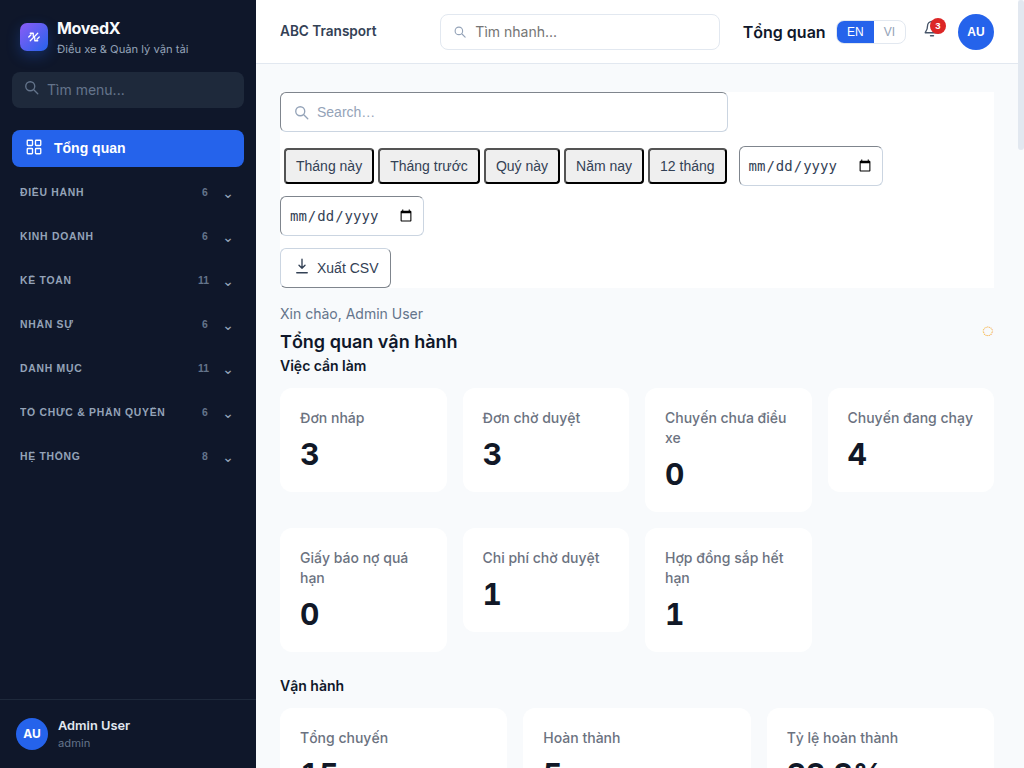
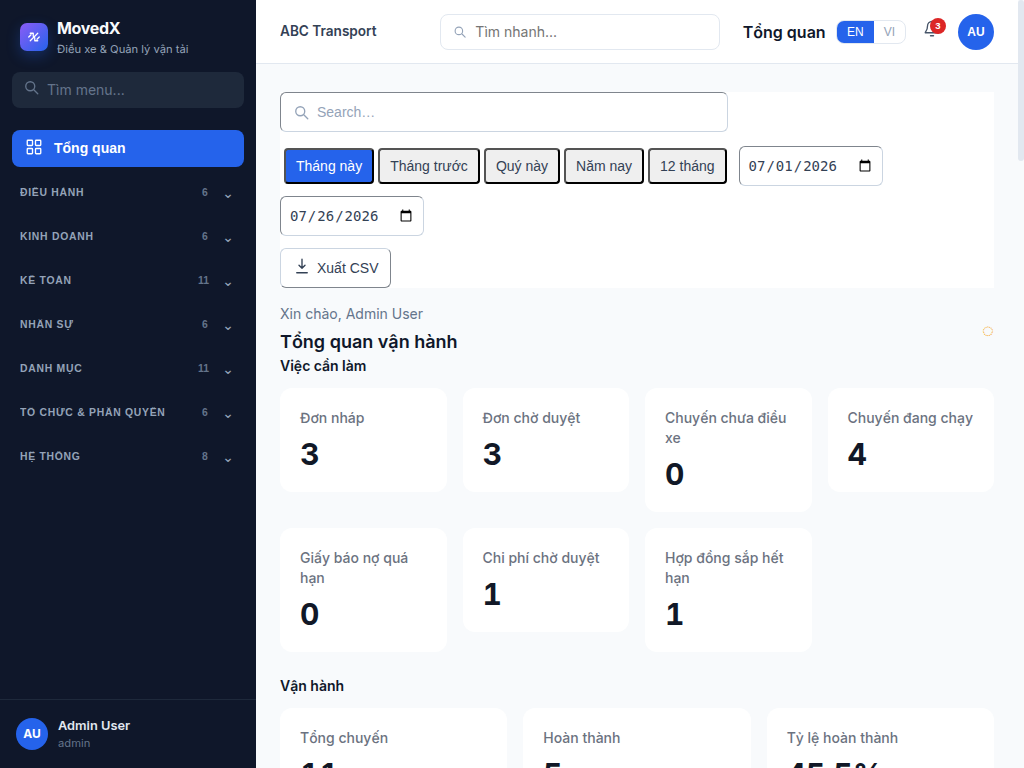
Initialize dashboard period state

Changed region(s): [[0.2812, 0.1875, 0.375, 0.3125], [0.7188, 0.1875, 0.8125, 0.25]]

diff --git a/lib/components/ListToolbar.ts b/lib/components/ListToolbar.ts
@@ -32,6 +32,7 @@ export type ListToolbarDefinition = {
     to_label?: string;
     presets?: Array<'today' | 'previous_month' | 'week' | 'month' | 'quarter' | 'year' | 'last_12_months' | 'all'>;
     preset_style?: 'select' | 'segmented';
+    default_preset?: 'today' | 'previous_month' | 'week' | 'month' | 'quarter' | 'year' | 'last_12_months' | 'all';
   };
   filter_sources?: string[];
 };
@@ -107,6 +108,7 @@ export class ListToolbar extends BaseComponent {
         };
         const submitPreset = (value: typeof dateRange.presets[number]) => {
           const dates = this.resolvePreset(value);
+          this.setState({ ...dates, preset: value }, false);
           this.submit('date-range', {
             [(dateRange.from_field || 'from_date')]: dates.from,
             [(dateRange.to_field || 'to_date')]: dates.to,
@@ -120,7 +122,7 @@ export class ListToolbar extends BaseComponent {
             const button = document.createElement('button');
             button.type = 'button';
             button.dataset.datePreset = preset;
-            button.className = 'rounded px-2.5 py-1.5 text-sm text-slate-700 transition-colors hover:bg-blue-50 hover:text-blue-700';
+            button.className = `rounded px-2.5 py-1.5 text-sm transition-colors hover:bg-blue-50 hover:text-blue-700 ${this.state.preset === preset ? 'bg-blue-600 text-white' : 'text-slate-700'}`;
             button.textContent = labels[preset] || preset;
             button.addEventListener('click', () => submitPreset(preset));
             segments.append(button);
@@ -140,6 +142,7 @@ export class ListToolbar extends BaseComponent {
             option.textContent = labels[preset] || preset;
             select.append(option);
           }
+          select.value = String((this.state as any).preset || '');
           select.addEventListener('change', () => {
             const value = select.value as typeof dateRange.presets[number] | '';
             if (value) submitPreset(value);
@@ -198,26 +201,8 @@ export class ListToolbar extends BaseComponent {
     container.append(root);
   }
 
-  private resolvePreset(preset: 'today' | 'previous_month' | 'week' | 'month' | 'quarter' | 'year' | 'last_12_months' | 'all') {
-    if (preset === 'all') return { from: '', to: '' };
-    const today = new Date();
-    const start = new Date(today.getFullYear(), today.getMonth(), today.getDate());
-    let end = today;
-    if (preset === 'previous_month') {
-      start.setMonth(start.getMonth() - 1, 1);
-      end = new Date(start.getFullYear(), start.getMonth() + 1, 0);
-    }
-    if (preset === 'week') start.setDate(start.getDate() - ((start.getDay() + 6) % 7));
-    if (preset === 'month') start.setDate(1);
-    if (preset === 'quarter') {
-      start.setMonth(Math.floor(start.getMonth() / 3) * 3, 1);
-    }
-    if (preset === 'year') start.setMonth(0, 1);
-    if (preset === 'last_12_months') start.setMonth(start.getMonth() - 11, 1);
-    const format = (date: Date) => [date.getFullYear(), date.getMonth() + 1, date.getDate()]
-      .map((part, index) => index === 0 ? String(part) : String(part).padStart(2, '0'))
-      .join('-');
-    return { from: format(start), to: format(end) };
+  private resolvePreset(preset: DateRangePreset) {
+    return resolveDatePreset(preset);
   }
 
   private emitSearch(action?: string) {
@@ -262,4 +247,26 @@ export class ListToolbar extends BaseComponent {
     if (variant === 'ghost') return 'border-transparent bg-transparent text-slate-600 hover:bg-slate-100 hover:text-slate-900';
     return 'border-slate-300 bg-white text-slate-700 hover:bg-slate-50';
   }
+}
+
+export type DateRangePreset = 'today' | 'previous_month' | 'week' | 'month' | 'quarter' | 'year' | 'last_12_months' | 'all';
+
+export function resolveDatePreset(preset: DateRangePreset, now = new Date()) {
+  if (preset === 'all') return { from: '', to: '' };
+  const today = new Date(now);
+  const start = new Date(today.getFullYear(), today.getMonth(), today.getDate());
+  let end = today;
+  if (preset === 'previous_month') {
+    start.setMonth(start.getMonth() - 1, 1);
+    end = new Date(start.getFullYear(), start.getMonth() + 1, 0);
+  }
+  if (preset === 'week') start.setDate(start.getDate() - ((start.getDay() + 6) % 7));
+  if (preset === 'month') start.setDate(1);
+  if (preset === 'quarter') start.setMonth(Math.floor(start.getMonth() / 3) * 3, 1);
+  if (preset === 'year') start.setMonth(0, 1);
+  if (preset === 'last_12_months') start.setMonth(start.getMonth() - 11, 1);
+  const format = (date: Date) => [date.getFullYear(), date.getMonth() + 1, date.getDate()]
+    .map((part, index) => index === 0 ? String(part) : String(part).padStart(2, '0'))
+    .join('-');
+  return { from: format(start), to: format(end) };
 }

diff --git a/lib/page-renderer.ts b/lib/page-renderer.ts
@@ -18,6 +18,7 @@ import { evalExpr, interpolate } from './expr.ts';
 import { resolveAction } from './meta.ts';
 import { navigate, getPageParams } from './navigate.ts';
 import { validatePageDefinition } from './yaml/schema.ts';
+import { resolveDatePreset } from './components/ListToolbar.ts';
 
 // ── Component registry ────────────────────────────────────────────────────────
 
@@ -52,7 +53,16 @@ export async function renderPage(config: any, { container = document.body }: { c
   }
 
   // 2. Build context
-  const pageParams = getPageParams();
+  const pageParams = { ...getPageParams() };
+  const initialDateFilters: Record<string, string> = {};
+  for (const component of config.components || []) {
+    const range = component.type === 'ListToolbar' ? component.date_range : undefined;
+    if (!range?.default_preset) continue;
+    const dates = resolveDatePreset(range.default_preset);
+    initialDateFilters[range.from_field || 'from_date'] = dates.from;
+    initialDateFilters[range.to_field || 'to_date'] = dates.to;
+  }
+  Object.assign(pageParams, initialDateFilters);
   const ctx: any = { user, row: {}, state: pageParams };
 
   // 3. Fetch datasources
@@ -66,7 +76,7 @@ export async function renderPage(config: any, { container = document.body }: { c
   for (const src of sourceDefs.values()) {
     const pageSize = src.page_size || 25;
     paginationState[src.id] = { skip: 0, top: pageSize, page: 1 };
-    filterState[src.id] = {};
+    filterState[src.id] = { ...initialDateFilters };
     try {
       const result = await client.query(
         createQuery({ sourceId: src.id, params: pageParams, skip: 0, top: pageSize })
@@ -871,7 +881,7 @@ export async function renderPage(config: any, { container = document.body }: { c
     const { ListToolbar } = await import('./components/ListToolbar.ts');
     const comp = new ListToolbar(
       `list-toolbar-${def.source || def.id || Date.now()}`,
-      { ...(filterState[def.source || ''] || {}), query: filterState[def.source || '']?.[def.filter_field || 'q'] || '' },
+      { ...(filterState[def.source || ''] || {}), query: filterState[def.source || '']?.[def.filter_field || 'q'] || '', preset: def.date_range?.default_preset },
       { search: def.search, actions: def.actions, date_range: def.date_range, filters: def.filters, filter_sources: def.filter_sources }
     );
     comp._onAction = async (actionId: string, params: any) => {

diff --git a/lib/yaml/schema.ts b/lib/yaml/schema.ts
@@ -84,7 +84,7 @@ const ROW_ACTION_KEYS = new Set(['id', 'label', 'variant', 'show_if']);
 const TAB_KEYS = new Set(['id', 'label', 'components', 'permission', 'count']);
 const STAT_KEYS = new Set(['label', 'field', 'format', 'currency', 'color']);
 const SEARCH_KEYS = new Set(['label', 'placeholder', 'action']);
-const DATE_RANGE_KEYS = new Set(['from_field', 'to_field', 'from_label', 'to_label', 'presets', 'preset_style']);
+const DATE_RANGE_KEYS = new Set(['from_field', 'to_field', 'from_label', 'to_label', 'presets', 'preset_style', 'default_preset']);
 const TOOLBAR_FILTER_KEYS = new Set(['field', 'label', 'options', 'placeholder']);
 const COMPONENT_ACTION_KEYS = new Set([
   'id',

diff --git a/.scratch/movedx-feature-parity/evidence/completion-audit.md b/.scratch/movedx-feature-parity/evidence/completion-audit.md
@@ -17,6 +17,7 @@ Audited 2026-07-26 against `.scratch/movedx-feature-parity/PRD.md`.
 - Operations navigation now exposes all six reference entries and maps each to a registered SPA route.
 - The shell reads the seeded company profile through an authenticated server endpoint and renders tenant identity in the header; it is not hard-coded in the client.
 - Dashboard renders a declarative in-page greeting using the authenticated user runtime state.
+- Dashboard period state defaults to the selected current-month preset with synchronized date fields and datasource bounds.
 
 ## Not Proven
 

diff --git a/.scratch/movedx-feature-parity/evidence/dashboard/controls.md b/.scratch/movedx-feature-parity/evidence/dashboard/controls.md
@@ -10,6 +10,7 @@
 ## Interaction checks
 
 - Select each period preset and confirm all KPI and table datasources refresh together.
+- Initial dashboard load selects `Tháng này`, fills both date fields, and applies those bounds to every dashboard datasource.
 - Enter a custom date range and verify route/customer totals change.
 - Export the dispatch queue and confirm the filtered rows are present.
 - Use global search to navigate directly to another registered route.
